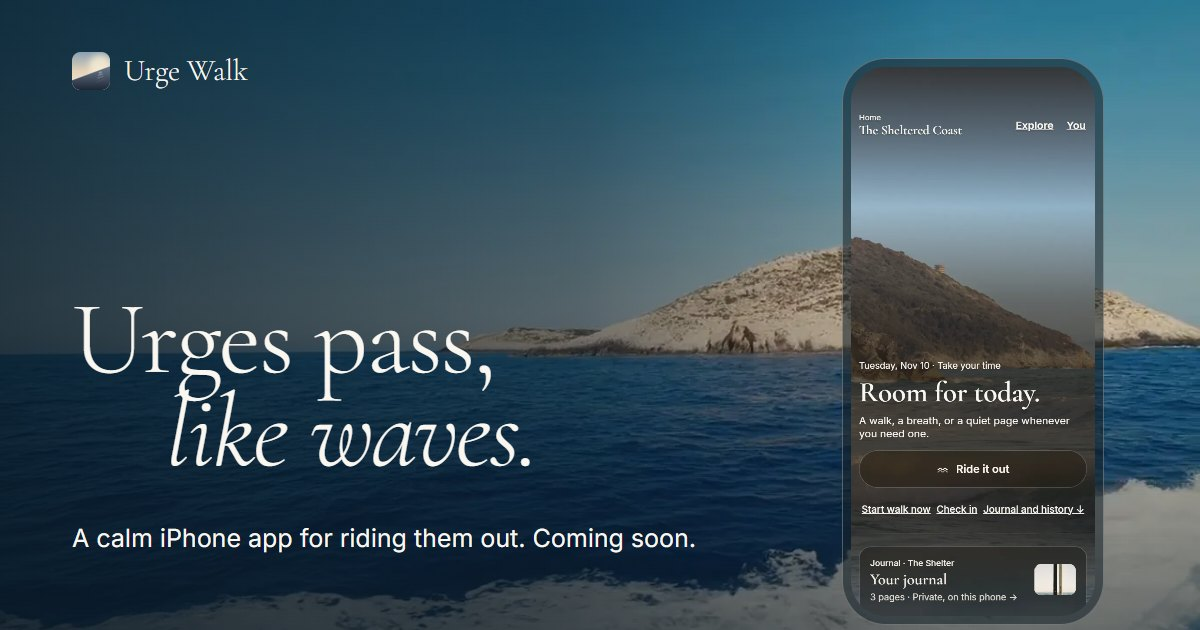
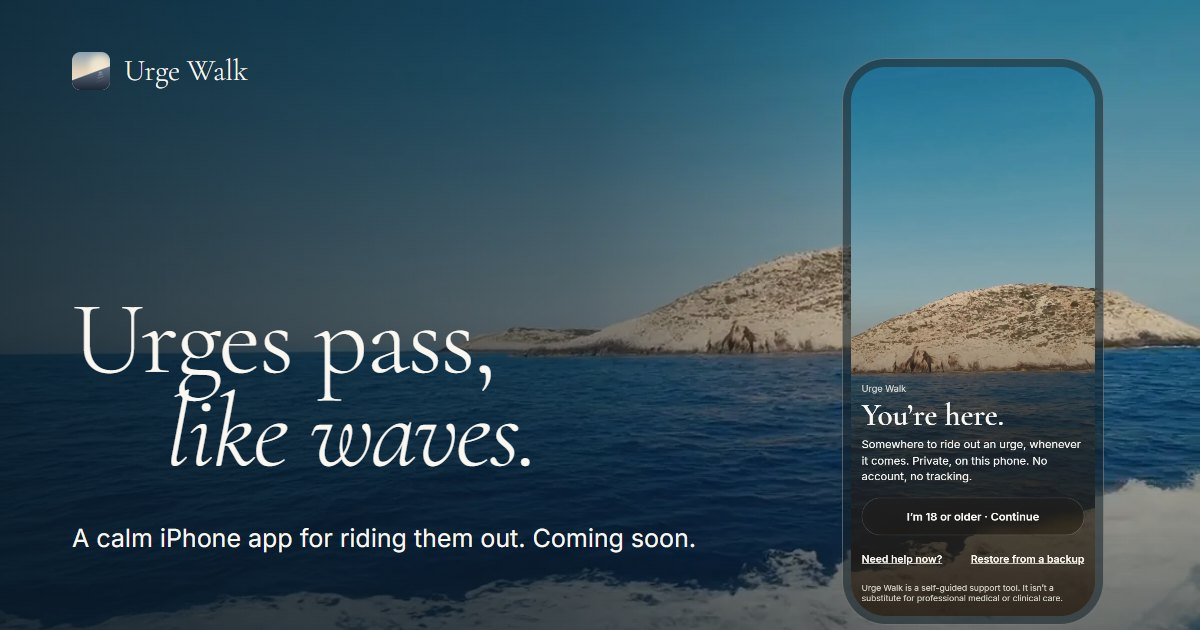
The hero phone shows the app's first screen; Home moves to the Sheltered Coast
Founder, on his iPhone: "This is still showing the Home Screen on arrival for the website."
- Hero phone: the arrival screen ("You're here.", "I'm 18 or older · Continue"), a still.
- Sheltered Coast phone: Home (the recording), so nothing is shown twice; its paragraph ends "Then this is Home."
- Phones: tighter hero spacing and no "See how it works" link, so "You're here." is on the first screen.
- Link-sharing image shows the arrival screen too. Offline cache r6.

Changed region(s): [[0.7092, 0.0905, 0.925, 0.9952]]

diff --git a/index.html b/index.html
@@ -20,11 +20,11 @@
 <p class="lede">Urge Walk is a small island for the next few minutes. When an urge hits, take a walk, breathe for a minute, or come back to your senses, and let it pass.</p>
 <div class="hero-ask"><a class="pill" href="mailto:hello@urgewalk.app?subject=Tell%20me%20when%20Urge%20Walk%20is%20out&amp;body=Hi%20Darius%2C%20I%27d%20like%20to%20hear%20when%20Urge%20Walk%20is%20on%20the%20App%20Store.">Tell me when it’s out</a><p class="soon"><svg width="20" height="20" viewBox="0 0 24 24" fill="currentColor" aria-hidden="true"><path d="M16.4 12.6c0-2.6 2.1-3.8 2.2-3.9-1.2-1.8-3.1-2-3.7-2-1.6-.2-3.1.9-3.9.9-.8 0-2-.9-3.4-.9-1.7 0-3.3 1-4.2 2.6-1.8 3.1-.5 7.7 1.3 10.2.9 1.2 1.9 2.6 3.2 2.6 1.3-.1 1.8-.8 3.3-.8s2 .8 3.4.8c1.4 0 2.3-1.3 3.1-2.5 1-1.4 1.4-2.8 1.4-2.9 0 0-2.7-1-2.7-4.1zM13.9 4.9c.7-.9 1.2-2 1-3.2-1 0-2.3.7-3 1.6-.7.8-1.2 2-1.1 3.1 1.2.1 2.3-.6 3.1-1.5z"/></svg>Coming to iPhone.</p></div>
 <p><a class="more" href="#coast">See how it works</a></p></div>
-<figure class="phone glass" data-motion="assets/screens/home.mp4"><img src="assets/screens/home.webp" width="585" height="1266" alt="Urge Walk’s Home, the Sheltered Coast: Room for today, with a Ride it out button" decoding="async"></figure></section>
+<figure class="phone glass"><img src="assets/screens/arrival.webp" width="585" height="1266" alt="The app’s first screen: You’re here, with I’m 18 or older, Continue, and Need help now" decoding="async"></figure></section>
 <section class="place c-shore near" id="coast" data-place="coast" aria-labelledby="coast-h"><div class="place-bg" role="img" aria-label="The Sheltered Coast: waves below a headland"></div><div class="veil"></div><div class="inner">
 <div class="words"><p class="cap rise"><span class="n">01</span>The Sheltered Coast<span class="when"> · <span class="is-day">daylight</span><span class="is-evening">evening</span></span></p><h2 class="title rise" id="coast-h">One screen, <em>then you’re in.</em></h2>
-<p class="lede rise">The first time you open Urge Walk, you arrive by sea. Confirm you’re 18 or older and you’re on the island. No account, no sign-up, no questions first. Help is one tap away from the very first screen.</p></div>
-<figure class="phone glass rise"><img src="assets/screens/arrival.webp" width="585" height="1266" alt="The app’s first screen: You’re here, with I’m 18 or older, Continue, and Need help now" loading="lazy" decoding="async"></figure>
+<p class="lede rise">The first time you open Urge Walk, you arrive by sea. Confirm you’re 18 or older and you’re on the island. No account, no sign-up, no questions first. Help is one tap away from the very first screen. Then this is Home.</p></div>
+<figure class="phone glass rise" data-motion="assets/screens/home.mp4"><img src="assets/screens/home.webp" width="585" height="1266" alt="Home at the Sheltered Coast, where you land: Room for today, with a Ride it out button" loading="lazy" decoding="async"></figure>
 </div></section>
 <section class="place c-clearing" id="clearing" data-place="clearing" aria-labelledby="clearing-h"><div class="place-bg" role="img" aria-label="The Clearing: a tree and tall grass in the wind"></div><div class="veil"></div><div class="inner">
 <figure class="phone glass rise"><img src="assets/screens/ride.webp" width="585" height="1266" alt="Ride it out at the Clearing: Walk, Breathe, Ground, Just log it" loading="lazy" decoding="async"></figure>

diff --git a/site.css b/site.css
@@ -392,7 +392,9 @@ html.moving .arrival:not(.still){background-image:var(--arr-start)}
 .hero-ask{display:flex;flex-wrap:wrap;align-items:center;gap:14px 26px;margin-top:28px}
 .hero-ask .soon{margin:0;font-size:1.3rem}
 @media (max-width:899px){
-  .arrival{grid-template-columns:1fr;align-content:start;gap:36px}
+  .arrival{grid-template-columns:1fr;align-content:start;gap:22px;padding-top:max(88px,calc(env(safe-area-inset-top) + 76px))}
+  .arrival-words .lede{margin-top:16px}.hero-ask{margin-top:20px}
+  .arrival-words>p:last-child{display:none} /* the phone below is the next step; keeps "You're here." on the first screen */
   .arrival .phone{order:0;justify-self:center;width:min(240px,62vw);margin-right:0}
   .arrival::after{background:linear-gradient(180deg,rgba(9,24,36,.8) 0%,rgba(9,24,36,.66) 55%,rgba(9,24,36,.34) 100%)}
 }

diff --git a/sw.js b/sw.js
@@ -1,7 +1,7 @@
 // Urge Walk — offline (round 3, Nov 9 2026). The three tools keep working with no signal: Walk, Breathe and
 // Ground, with their styles, fonts and phone-size photographs in both lights. Pages are fetched fresh when
 // online (network first) so updates arrive; everything else is served from cache and refreshed behind.
-const VERSION = 'uw-2026-11-10-r5'
+const VERSION = 'uw-2026-11-10-r6'
 const CORE = [
   './', 'index.html', 'walk.html', 'breathe.html', 'ground.html', 'ride.html', 'support.html',
   'site.css', 'places.css', 'site.js', 'tools.json', 'manifest.webmanifest',

diff --git a/AGENTS.md b/AGENTS.md
@@ -28,7 +28,7 @@ Then "one change per round" (Goal: the launch email; limit +100 lines):
 Matching the app (Nov 9, app rounds 1 and 8): Ground opens on its first sense (no intro or Start; Back is off on sense 1, Start again returns to sense 1), and the Ride it out dialog appears without an entrance animation.
 
 ## App first (Nov 10, proposal in PR)
-Founder: "i want people to be focused on the app". The homepage is re-composed so the phone is the subject and the island the setting: the arrival is the hero (what it is, "Urges pass, like waves.", the ask as a button, and the app's Home in a phone); then the Sheltered Coast (the app's first screen: "You're here.", 18 or older, Continue; added Nov 10 after the founder: "the website doesn't show the arrival screenshot"), the Clearing (Ride it out), the Path (Walk), the Tide Pool (the live breath), the Shore (Ground), the Outlook (History), the Cottage (private), Night. The separate Coast screen, the Cove and the Shelter left the homepage (their photographs still serve other pages).
+Founder: "i want people to be focused on the app". The homepage is re-composed so the phone is the subject and the island the setting: the arrival is the hero (what it is, "Urges pass, like waves.", the ask as a button, and the app's first screen, "You're here.", in a phone; founder, Nov 10: the first phone a visitor sees is the app's real first screen, and Home moved to the Sheltered Coast); then the Sheltered Coast (the app's first screen: "You're here.", 18 or older, Continue; added Nov 10 after the founder: "the website doesn't show the arrival screenshot"), the Clearing (Ride it out), the Path (Walk), the Tide Pool (the live breath), the Shore (Ground), the Outlook (History), the Cottage (private), Night. The separate Coast screen, the Cove and the Shelter left the homepage (their photographs still serve other pages).
 - `assets/screens/`: captures of the current app (web build, 390 × 844, seeded sample data, never the founder's own): `arrival` (first run, fresh storage, after the clip has rested), `home`, `ride`, `walk`, `ground`, `history` `.webp`, and `home.mp4`, `walk.mp4` (8 s recordings, 390 × 844). A `<figure class="phone" data-motion="…mp4">` plays its recording while on screen and `html.moving` is set (`syncPhones` in `site.js`); otherwise the capture shows. Capture script: the private Sources folder for Nov 10 (`site-app-first/shoot.cjs`).
 - The Coast loops are back with the arrival section; the Cove has stills only (For helpers band).
 
